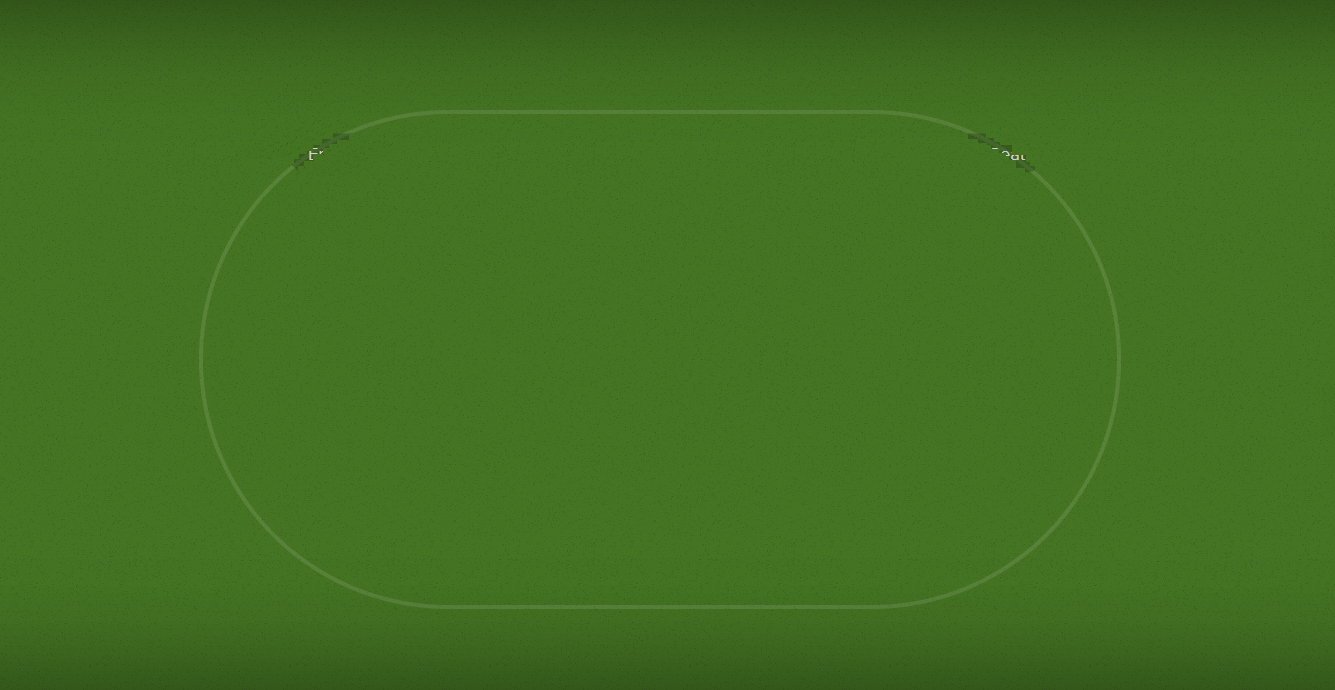
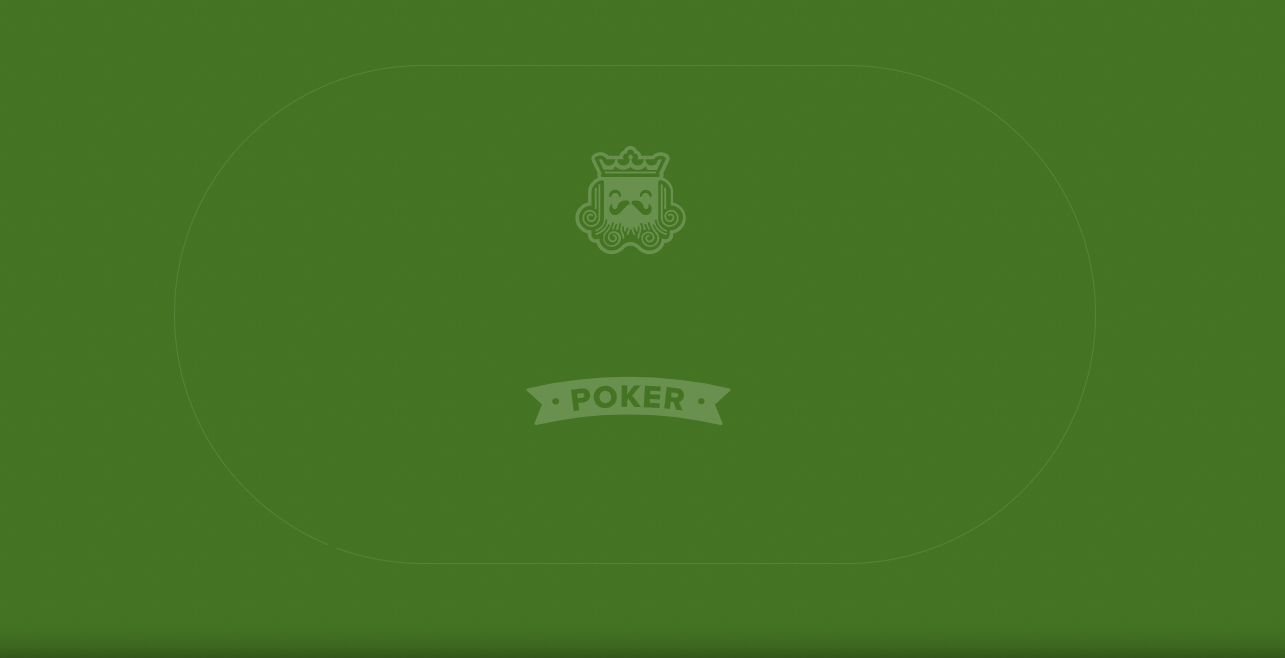
Table background remastered

diff --git a/frontend/src/main/web/src/app/modules/table/table.component.scss b/frontend/src/main/web/src/app/modules/table/table.component.scss
@@ -1,7 +1,7 @@
 .table-container {
-  background-image: url('../../../assets/poker-table.png');
+  background-image: url('src/assets/poker-table.png');
   background-repeat: no-repeat;
-  height: 600px;
+  height: 630px;
   width: 1200px;
   background-position: center;
   margin: 0 auto;
@@ -11,11 +11,12 @@
     display: flex;
     margin: auto;
     position: absolute;
-    top: 0; left: -40%; bottom: 0; right: 0;
+    top: -5%; left: -36%; bottom: 0; right: 0;
 
-    width: 115px;
-    height: 145px;
+    width: 92px;
+    height: 120px;
     .card-item {
+      border-radius: 5px;
       max-width: 100%;
       height: auto;
     }

diff --git a/frontend/src/main/web/src/app/modules/table/table.component.ts b/frontend/src/main/web/src/app/modules/table/table.component.ts
@@ -24,7 +24,7 @@ export class TableComponent implements OnInit, AfterViewInit, OnDestroy {
   }
 
   ngAfterViewInit() {
-    this.openModal();
+    // this.openModal();
   }
 
   openModal() {

diff --git a/frontend/src/main/web/src/app/app.component.html b/frontend/src/main/web/src/app/app.component.html
@@ -1,2 +1,2 @@
-<a href="/table">Start</a>
 <router-outlet></router-outlet>
+<a href="/table">Start</a>
